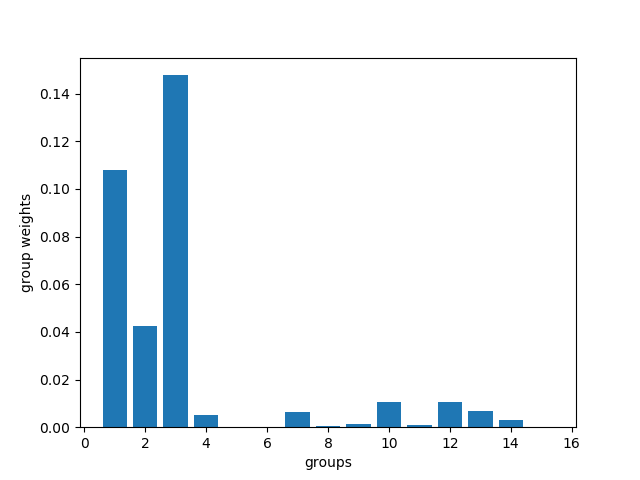
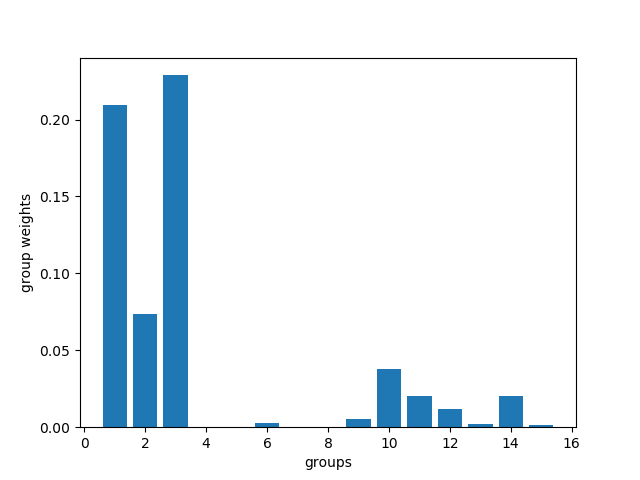
CV added

diff --git a/PKB.py b/PKB.py
@@ -10,44 +10,21 @@ author: li zeng
 # ██ ██  ██  ██ ██      ██    ██ ██   ██    ██
 # ██ ██      ██ ██       ██████  ██   ██    ██
 
-
 import matplotlib
 matplotlib.use('Agg')
 from matplotlib import pyplot as plt
 import assist
+from assist.functions import loss_fun, line_search
+from assist.cvPKB import CV_PKB
 from assist.method_L1 import oneiter_L1, find_Lambda_L1
 from assist.method_L2 import oneiter_L2, find_Lambda_L2
 import numpy as np
+import pandas as pd
 import time
 from multiprocessing import cpu_count
 from sys import argv
 import sharedmem
-import scipy
-import pandas as pd
-
-"""-----------------
-FUNCTIONS
---------------------"""
-# loss function
-def loss_fun(f,y):
-    return np.mean(np.log(1+np.exp(-y*f)))    
-
-# line search
-def line_search(sharedK,F_train,ytrain,Kdims,pars):
-    [m,beta,c] = pars    
-    # get K
-    nrow = Kdims[0]
-    width = nrow**2
-    Km = sharedK[(m*width):((m+1)*width)].reshape((nrow,nrow))
-    
-    b = Km.dot(beta)+c
-    # line search function
-    def temp_fun(x):
-        return np.log(1+np.exp(-ytrain*(F_train+ x*b))).sum()
-    out = scipy.optimize.minimize_scalar(temp_fun)
-    if not out.success:
-        print("warning: minimization failure")
-    return out.x    
+  
 
 # ██ ███    ██ ██████  ██    ██ ████████
 # ██ ████   ██ ██   ██ ██    ██    ██
@@ -64,19 +41,16 @@ config_file = argv[1]
 print("input file:",config_file)
 inputs = assist.input_process.input_obj()
 inputs.proc_input(config_file)
-inputs.data_preprocessing(rm_lowvar=False,center=True,norm=False)
+inputs.data_preprocessing(center=True)
 
 
 """---------------------------
 SPLIT TEST TRAIN
 ----------------------------"""
-inputs.data_split()
 # input summary
 print()
-# inputs.data_split()
 inputs.input_summary()
 inputs.model_param()
-print("number of cpus available:",cpu_count())
 print()
 
 
@@ -90,7 +64,7 @@ print()
 CALCULATE KERNEL
 ----------------------------"""
 K_train = assist.kernel_calc.get_kernels(inputs.train_predictors,inputs.train_predictors,inputs)
-if inputs.Ntest > 0:
+if not inputs.Ntest is None:
     K_test= assist.kernel_calc.get_kernels(inputs.train_predictors,inputs.test_predictors,inputs)
 
 # put K_train in shared memory
@@ -113,11 +87,8 @@ outputs.F0 = F0
 F_train = np.repeat(F0,inputs.Ntrain) # keep track of F_t(x_i) on training data
 outputs.train_err.append((np.sign(F_train) != ytrain).sum()/len(ytrain))
 outputs.train_loss.append(loss_fun(F_train,ytrain))
-if inputs.Ntest > 0:
-    ytest = np.squeeze(inputs.test_response.values)
+if not inputs.Ntest is None:
     F_test = np.repeat(F0,inputs.Ntest) # keep track of F_t(x_i) on testing data
-    outputs.test_err.append((np.sign(F_test) != ytest).sum()/len(ytest))
-    outputs.test_loss.append(loss_fun(F_test,ytest))
     
 outputs.trace.append([0,np.repeat(0,inputs.Ntrain),0])
 
@@ -150,26 +121,33 @@ if (inputs.Ntrain > 500 or inputs.Ngroup > 40):
 else:
     parallel = False
     gr_sub = False
-    print("Algorithm: parallel algorithm not used")
+    print("Algorithm: parallel algorithm not used\n")
 
-ESTOP = 500 # early stop if test_loss have no increase
-if inputs.Ntest>0: loss0 = outputs.test_loss[0]
-ct_fromMinLoss = 0 # count from minLoss
+ESTOP = 100 # early stop if test_loss have no increase
+
+"""---------------------------
+CV FOR NUMBER OF ITERATIONS
+----------------------------"""
+opt_iter = CV_PKB(inputs,sharedK,K_train,Kdims,Lambda,nfold=3,ESTOP=ESTOP,\
+                  ncpu=1,parallel=False,gr_sub=False,plot=True)
+
 
 """---------------------------
 BOOSTING ITERATIONS
 ----------------------------"""
-
 time0 = time.time()
-for t in range(1,inputs.maxiter+1):
+print("--------------------- Boosting -------------------")
+print("iteration\ttrain err\t time(min)")
+for t in range(1,opt_iter+1):
     # one iteration
     if inputs.method == 'L2':
         [m,beta,c] = oneiter_L2(sharedK,F_train,ytrain,Kdims,\
-                Lambda=Lambda,ncpu = ncpu,parallel = parallel,subset=inputs.rand_subset)    
+                Lambda=Lambda,ncpu = ncpu,parallel = parallel,\
+                sele_loc=None,group_subset = gr_sub)    
     if inputs.method == 'L1':
         [m,beta,c] = oneiter_L1(sharedK,F_train,ytrain,Kdims,\
                 Lambda=Lambda,ncpu = ncpu,parallel = parallel,\
-                subset=inputs.rand_subset,group_subset = gr_sub) 
+                sele_loc=None,group_subset = gr_sub) 
     
     # line search
     x = line_search(sharedK,F_train,ytrain,Kdims,[m,beta,c])
@@ -181,31 +159,16 @@ for t in range(1,inputs.maxiter+1):
     F_train += (K_train[:,:,m].dot(beta) + c)*inputs.nu
     outputs.train_err.append((np.sign(F_train)!=ytrain).sum()/len(ytrain))
     outputs.train_loss.append(loss_fun(F_train,ytrain))
-    
-    if inputs.Ntest>0:
+    if not inputs.Ntest is None:
         F_test += (K_test[:,:,m].T.dot(beta)+ c)*inputs.nu
-        outputs.test_err.append((np.sign(F_test)!=ytest).sum()/len(ytest))
-        new_loss = loss_fun(F_test,ytest)
-        outputs.test_loss.append(loss_fun(F_test,ytest))
-        if new_loss < loss0:
-            ct_fromMinLoss = 0; loss0 = new_loss
-        else:
-            ct_fromMinLoss += 1
-        # check early stop 
-        if ct_fromMinLoss == ESTOP: 
-            print('Early stop criterion satisfied: break boosting.\n')
-            break
                    
     # print time report
-    if t%50 == 0:
-        print("iteration:",t)
-        print("training error:",outputs.train_err[t])
-        if inputs.Ntest > 0: print("testing error:",outputs.test_err[t])
+    if t%20 == 0:
         iter_persec = t/(time.time() - time0) # time of one iteration
-        print("Speed:",iter_persec,"iterations/second")
-        rem_time = (inputs.maxiter-t)/iter_persec # remaining time
-        print("Time remaining:",rem_time/60,"mins")
-        print()
+        rem_time = (opt_iter-t)/iter_persec # remaining time
+        print("%9.0f\t%9.4f\t%9.4f" % \
+              (t,outputs.train_err[t],rem_time/60))
+print("--------------------------------------------------")
 
 
 
@@ -214,16 +177,13 @@ for t in range(1,inputs.maxiter+1):
 # ██████  █████   ███████ ██    ██ ██      ██    ███████
 # ██   ██ ██           ██ ██    ██ ██      ██         ██
 # ██   ██ ███████ ███████  ██████  ███████ ██    ███████
-
-## show results
-opt_t = outputs.best_t()
-
-    # trace
-f = outputs.show_err()
-f.savefig(inputs.output_folder + "/err.png")
-
+    # predictions
+if not inputs.Ntest is None:
+    pred = pd.Series( np.array([int(x>0) for x in F_test])*2-1, index= inputs.test_predictors.index )
+    pred.to_csv(inputs.output_folder+"/test_prediction.txt",index_label='sample')
+    
     # opt weights
-[weights,f0] = outputs.group_weights(opt_t,plot=True)
+[weights,f0] = outputs.group_weights(opt_iter,plot=True)
 f0.savefig(inputs.output_folder + "/opt_weights.png")
 
     # opt weights list
@@ -231,9 +191,8 @@ sorted_w = pd.Series(weights,index=inputs.group_names).sort_values(ascending=Fal
 sorted_w.to_csv(inputs.output_folder+'/opt_weights.txt',index_label='group')
 
     # weights paths
-[path_mat,f1,f2] = outputs.weights_path(plot=True)
-f1.savefig(inputs.output_folder + "/weights_path1.png")
-f2.savefig(inputs.output_folder + "/weights_path2.png")
+[path_mat,f] = outputs.weights_path(plot=True)
+f.savefig(inputs.output_folder + "/weights_path.png")
 
 
 # ███████  █████  ██    ██ ███████

diff --git a/README.md b/README.md
@@ -1,7 +1,7 @@
 # PKB usage instruction
 This webpage provides an instruction for using the PKB (Pathway-based Kernel Boosting) model. PKB is designed to perform classification analysis with gene expression data. It incorporates gene pathway information as prior knowledge, and performs selection of informative pathways at the same time as building the predictive model. 
 
-**Software preparation**:   
+**Software requirement**:   
 The program is written in **Python3**. Please install the following Python packages before running the program: 
 
 - pandas
@@ -15,11 +15,17 @@ The program is written in **Python3**. Please install the following Python packa
 
 **Page contents:**
 
+- [About PKB](#pkb)
 - [Data preparation](#data)
 - [Running PKB](#run)
 - [Results interpretation](#results)
 
+## <a name=pkb></a> About PKB
+PKB is a boosting-based method for utilizing pathway information to better predict clinical outcomes. It constructs base learners from each pathway using kernel functions. In each boosting iteration, it identifies the optimal base learner and adds it to the prediction function.
 
+The algorithm has two parts. The first part is calculating an optimal number of iterations using cross validation (CV). In this part, we split the training data into 3-folds, fit the boosting model, and monitor the classification error and loss function at each iteration. The iteration with minimum CV loss is used as iteration numbers.
+
+In part two, we use the whole training data to fit the boosting model to the previously calculated number of iterations. We provide figures and tables to report the estimated weights for each pathway in the final model. If gene expression data for new samples is given, we also provide predictions in the output.
 
 ## <a name=data></a> Data preparation
 PKB requires the input datasets to be formatted in certain ways. 
@@ -80,32 +86,29 @@ output_folder: example_output
 predictor: predictor.txt  
 response: response.txt    
 predictor_set: predictor_sets.txt 
+test_file: test_predictor.txt
 
 # model parameters
 maxiter: 500
-random_subset: 1
 learning_rate: 0.02
 Lambda:   
 kernel: rbf
 method: L1
-test_ratio: 0.33 
 ```
 
 The parameters are interpreted as following:
 
 - `input_folder`: the folder where you keep the input data (path relative to your current folder)
-- `output_folder`: the folder where you want to PKB to keep the output figures and data (path relative to `input_folder`)
-- `predictor`: input gene expression file (path relative to `input_folder`)
-- `response`: input clinical outcome file (path relative to `input_folder`)
-- `predictor_set`: input pathway file (path relative to `input_folder`)
+- `output_folder`: the folder where you want to PKB to keep the output figures and data (path relative to input_folder)
+- `predictor`: training data gene expression file (path relative to input_folder)
+- `response`: training data clinical outcome file (path relative to input_folder)
+- `predictor_set`: input pathway file (path relative to input_folder)
+- `test_file`(optional): gene expression data for prediction; same format as `predictor`
 - `maxiter`: number of maximum boosting iterations
-- `random_subset`: a value in `[0,1]`. Each time choose a random subset of samples to train the model. Choose a value `< 1` to speed up the boosting process when the dataset is large 
 - `learning_rate`: the learning rate parameter $\nu$ 
-- `Lambda`: the penalty parameter. If left blank, PKB will use an auto-determine algorithm to choose one.
-- `kernel`: the kernel function. Currently we support, radial basis function(`rbf`) and polynomial kernel with $k$ degrees (`poly2`,`poly3`,etc)
+- `Lambda`(optional): the penalty parameter. If left blank, PKB will use an auto-determine algorithm to choose one.
+- `kernel`: the kernel function. Currently we support, radial basis function(rbf) and polynomial kernel with $k$ degrees (poly2,poly3,etc)
 - `method`: `L1` for $L_1$ penalty, `L2` for $L_2$ penalty
-- `test_ratio`: the proportion of data to be used as testing dataset
-
 
 ## <a name=run></a> Running PKB
 Follow the steps below in order to run PKB on your own computer (we use our toy dataset as example):
@@ -130,24 +133,28 @@ The outputs will be saved in the `output_folder` as you specified in the configu
 ## <a name=results></a> Results interpretation
 
 ### Figures
-1. `err.png`:    
-presents the classifcation error rate at each iteration
-![](example/example_output/err.png?raw=true)
+1. `CV_err.png, CV_loss.png`:    
+present classifcation error and loss function value at each iteration of the cross validation process
+![](example/example_output/CV_err.png?raw=true)
+![](example/example_output/CV_loss.png?raw=true)
+
 
 2. `opt_weights.png`:    
-shows the optimal pathways weights at the iteration with the smallest testing error
+shows the estimated pathways weights fitted using our boosting model
 ![](example/example_output/opt_weights.png?raw=true)
 
 
-3. `weights_path1.png,weights_path2.png`:    
-both figures show the changes of the pathways weights as iteration number goes up. `weights_path2.png` is just a zoomed-in version of `weights_path1.png`, zooming close to the optimal iteration.
-![](example/example_output/weights_path1.png?raw=true)
-![](example/example_output/weights_path2.png?raw=true)
+3. `weights_path.png`:    
+shows the changes of pathways' weights as iteration number increases.
+![](example/example_output/weights_path.png?raw=true)
 
 
-### Table
+### Tables
 1. `opt_weights.txt`:    
 a table showing the optimal weights of all pahtways. It is sorted in descending order. The first column are pathways, and the second column are correponding weights.
+
+2. `test_prediction.txt`:   
+the predicted outcome values, if `test_file` is provided in the configuration file.
 
 ### Pickle file
 1. `results.pckl`:   
